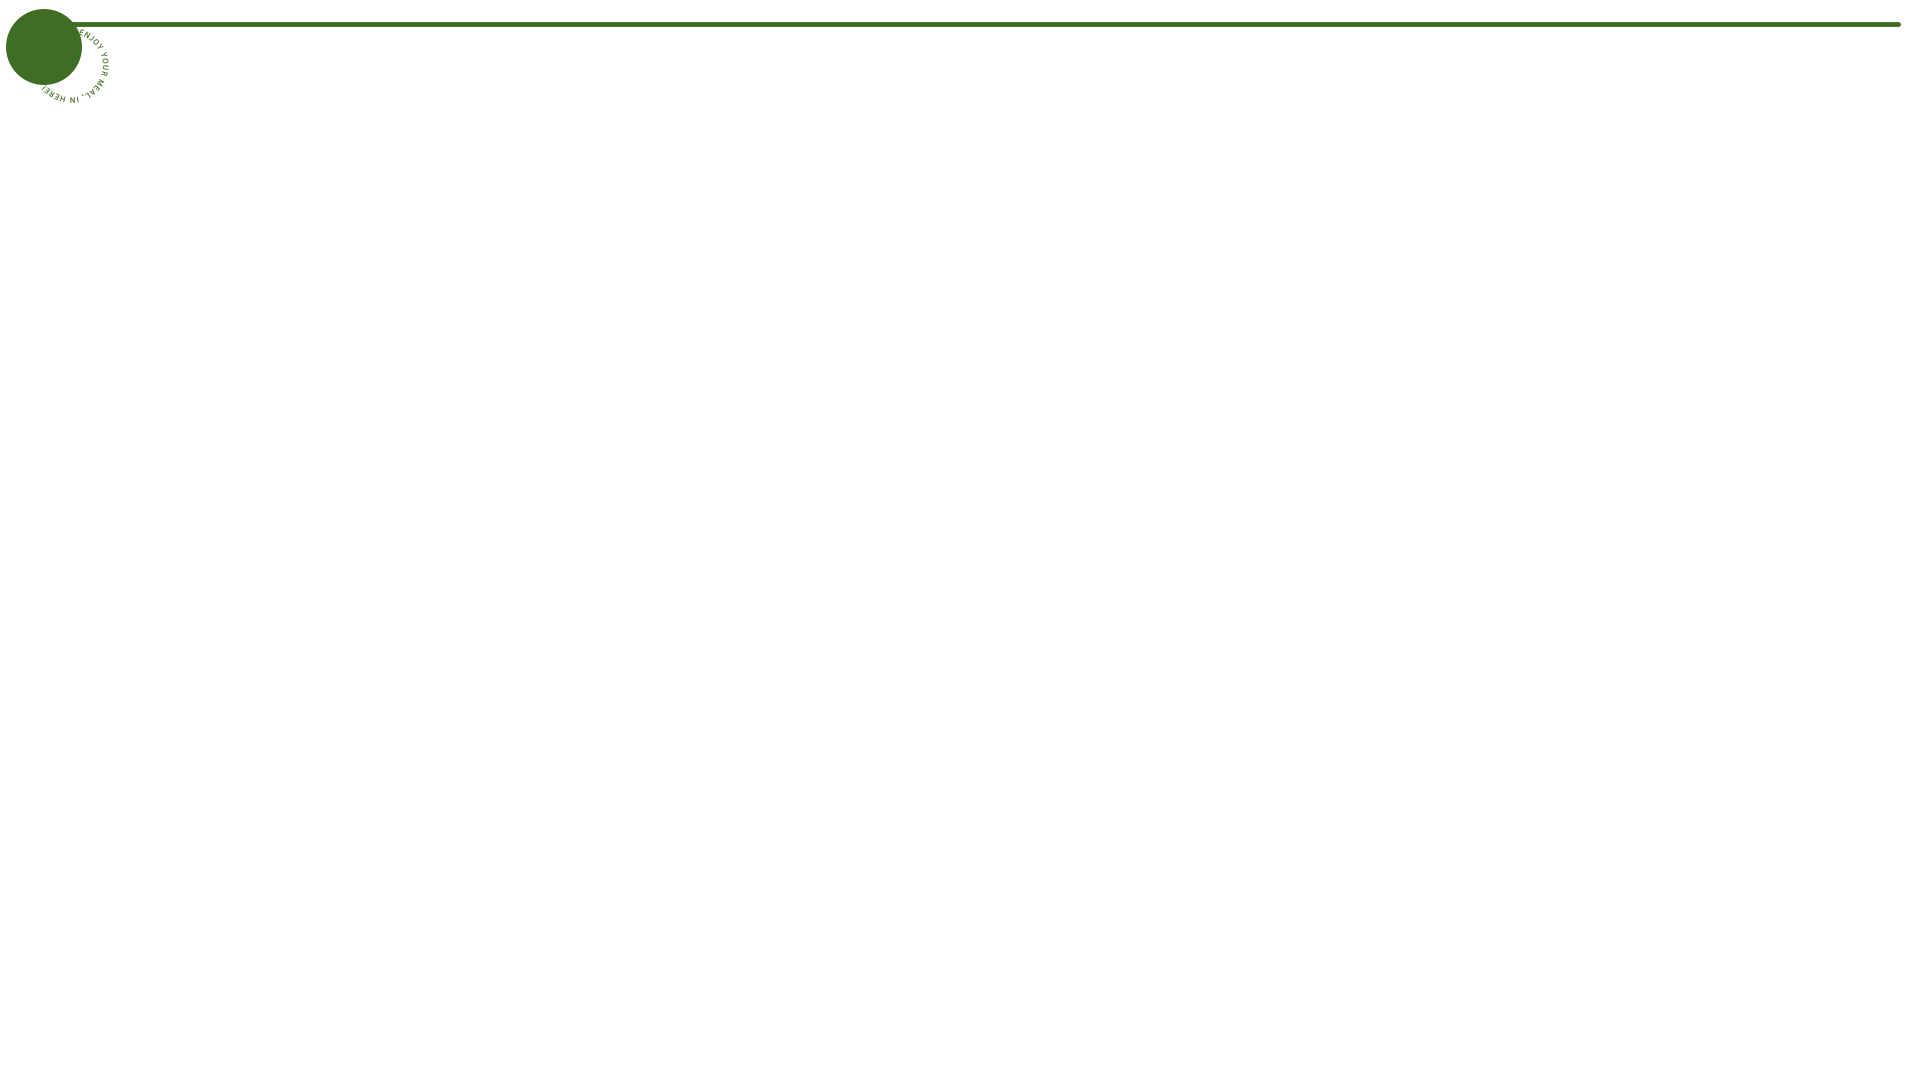
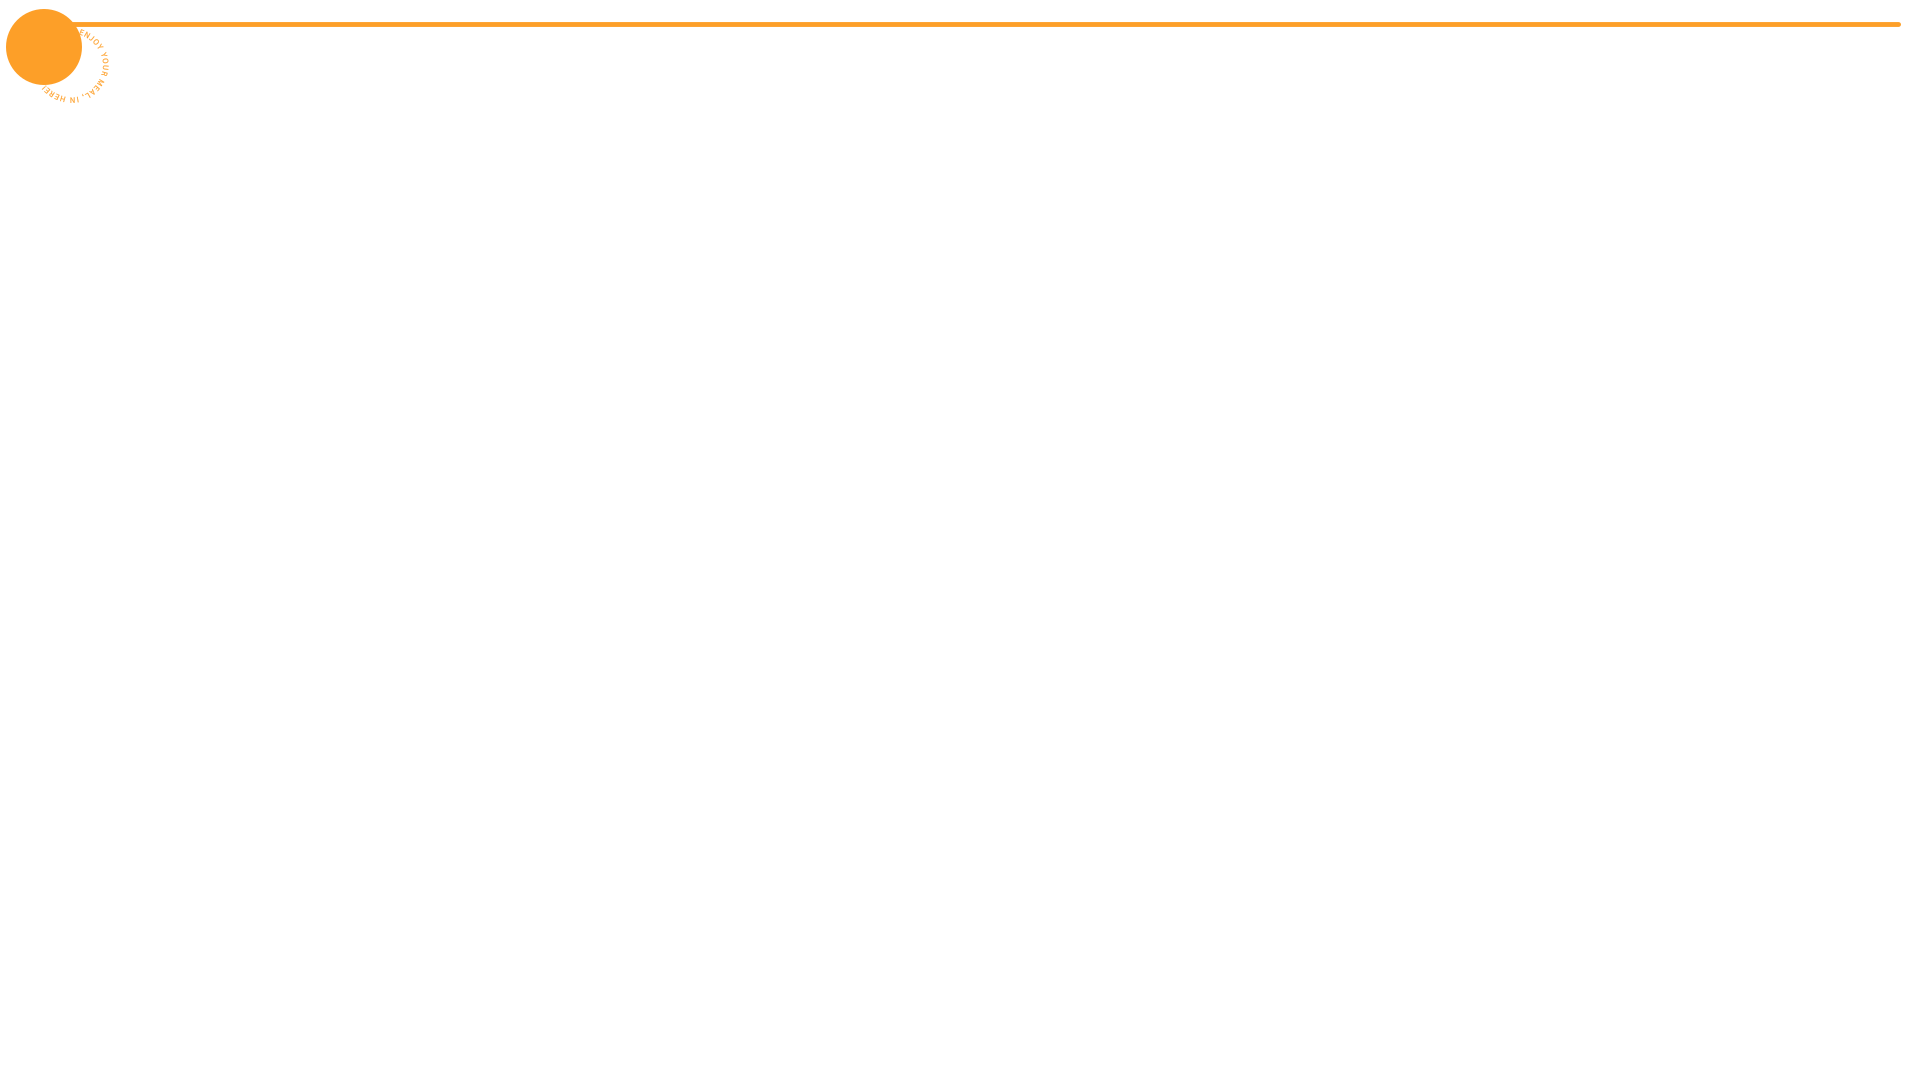
23.07.28

Changed region(s): [[0.0, 0.0, 1.0, 0.0917]]

diff --git a/myapp/src/Food/Food.module.css b/myapp/src/Food/Food.module.css
@@ -112,7 +112,8 @@
     background-repeat: no-repeat;
     background-size: cover;
     position: relative;
-    height: 300px; /* Adjust the height as needed */
+    height: 300px;
+    /* Adjust the height as needed */
 }
 
 .ListFindButton {
@@ -121,8 +122,10 @@
     cursor: pointer;
     padding: 0;
     position: absolute;
-    top: 13%; /* Place the button at the top */
-    left: 7%; /* Place the button at the left */
+    top: 13%;
+    /* Place the button at the top */
+    left: 7%;
+    /* Place the button at the left */
 }
 
 
@@ -135,7 +138,8 @@
     position: absolute;
     top: auto;
     left: auto;
-    z-index: -2; /* 이미지를 뒤로 보내어 내용이 위에 나타나도록 설정 */
+    z-index: -2;
+    /* 이미지를 뒤로 보내어 내용이 위에 나타나도록 설정 */
 }
 
 .FoundSq::before {
@@ -145,7 +149,7 @@
     width: 97%;
     height: 97%;
     /* 사각형의 색상과 불투명도 설정 */
-    background-color: rgba(255, 255, 255, 0.65); 
+    background-color: rgba(255, 255, 255, 0.65);
     /* 사각형을 화면 중앙에 위치하도록 설정 */
     position: absolute;
     top: 50%;
@@ -186,13 +190,13 @@
 }
 
 
-.FoodFoundChkdiv{
+.FoodFoundChkdiv {
     display: inline-flex;
     /* width: 80%; */
     position: absolute;
     top: 15%;
     left: 7.5%;
-    
+
 }
 
 .checkboxLabel {
@@ -205,33 +209,21 @@
     /* width: 80%; */
     position: absolute;
     top: 15%;
-    left: 30%; 
+    left: 30%;
 }
 
 .FoundFindBt {
-    width: 200px;;
+    width: 200px;
+    ;
     position: absolute;
     bottom: 4%;
-    left: 85%; 
+    left: 85%;
 }
 
 
 input[type=checkbox] {
     zoom: 1.5;
 }
-
-.LoginBackImg {
-    background-image: url("../Img/FoodLogin/LoginBackImg.png");
-    background-repeat: no-repeat;
-    background-size: cover;
-    width: 100%;
-    height: 100%;
-    /* 절대 위치 설정 */
-    position: absolute;
-    top: auto;
-    left: auto;
-}
-
 
 .SearchBackImg {
     background-image: url("../Img/FoodSearch/SearchBackImg.png");
@@ -255,12 +247,14 @@ input[type=checkbox] {
 .Searchall {
     display: inline-flex;
 }
+
 .Searchsub {
     display: inline-flex;
     font-family: 'Binggrae-Two';
-    color: #406D24;
+    color: #FD9F28;
     font-size: 35px;
 }
+
 .SearchAddress {
     position: absolute;
     top: 10%;
@@ -272,6 +266,7 @@ input[type=checkbox] {
     top: 25%;
     left: 8%;
 }
+
 .SearchPet {
     position: absolute;
     top: 40%;
@@ -283,3 +278,54 @@ input[type=checkbox] {
     top: 60%;
     left: 6%;
 }
+
+.LoginBackImg {
+    background-image: url("../Img/FoodLogin/LoginBackImg.png");
+    background-size: contain;
+    background-repeat: no-repeat;
+    background-position: center;
+    width: 100%;
+    height: 100vh;
+    display: flex; /* 부모 요소를 Flex 컨테이너로 설정 */
+    justify-content: center; /* 가로 방향으로 가운데 정렬 */
+    align-items: center; /* 세로 방향으로 가운데 정렬 */
+}
+
+.Inputdiv {
+    position: absolute;
+    top: 30%;
+    left: 35%;
+}
+
+.LoginBtdiv {
+    position: absolute;
+    bottom: 10%;
+    left: 40%;
+}
+
+
+.Loginsub {
+    display: flex;
+    flex-direction: column;
+    align-items: center;
+    margin-top: 14px;
+    width: 700px;
+    height: 90px;
+    background-size: cover;
+    position: relative; 
+  }
+  
+.Loginsub input {
+    width: 590px;
+    height: 90px;
+    background-color: transparent; 
+    background-repeat: no-repeat;
+    background-position: left center; 
+    background-size: 10%; 
+    border: none; 
+    padding: 5px; 
+    position: absolute; 
+    left: 15%;
+}
+  
+  

diff --git a/myapp/src/Food/FoodLogin.js b/myapp/src/Food/FoodLogin.js
@@ -1,28 +1,52 @@
-import style from "./Food.module.css"
-
-import LoginBt from "../Img/FoodLogin/LoginBt.png"
-import LoginID from "../Img/FoodLogin/LoginID.png"
-import LoginPW from "../Img/FoodLogin/LoginPW.png"
+import style from "./Food.module.css";
+import LoginBt from "../Img/FoodLogin/LoginBt.png";
+import LoginID from "../Img/FoodLogin/LoginID.png";
+import LoginPW from "../Img/FoodLogin/LoginPW.png";
+import { useState } from "react"; // Import useState to handle login validation state
+import { useNavigate } from "react-router-dom";
 
 const FoodLogin = () => {
+  const navigate = useNavigate();
 
-    return (
-        <main className={style.LoginBackImg}>
-            <form>
-                <div class="grid">
-                    <label for="ID" >
-                        <input type="text" id="ID" name="ID" placeholder="ID" required />
-                    </label>
+  // State to store login status (true for successful login, false for failed login)
+  const [loginStatus, setLoginStatus] = useState(null);
 
-                    <label for="pw">
-                        <input type="text" id="pw" name="pw" placeholder="pw" required />
-                    </label>
-                </div>
-                <button  type="submit"><img src={LoginBt} alt="LoginBt" className={style.LoginBt}/></button>
-            </form>
-        </main>
+  const handleLogin = () => {
+    // 여기서 로그인 동작을 수행합니다.
+    // 예시로 로그인이 성공했다고 가정하고 setTimeout을 사용하여 로그인 결과를 1초 뒤에 설정합니다.
+    // 실제로는 서버와 통신하여 로그인 결과를 처리해야 합니다.
+    setTimeout(() => {
+      const loginResult = true; // 예시: 로그인 결과 (true: 성공, false: 실패)
 
-    );
+      // 로그인 결과에 따라 처리
+      if (loginResult) {
+        setLoginStatus(true); // 로그인 성공
+        navigate("/"); // FoodMain.js 경로로 페이지 이동
+      } else {
+        setLoginStatus(false); // 로그인 실패
+      }
+    }, 1000); // 1초 후에 로그인 결과를 설정합니다. (실제로는 서버와 통신해야 함)
+  };
+
+  return (
+    <main className={style.LoginBackImg}>
+      <form>
+        <div className={style.Inputdiv}>
+          <div className={style.Loginsub} style={{ backgroundImage: `url(${LoginID})` }}>
+            <input type="text" id="ID" name="ID" placeholder="ID" required />
+          </div>
+
+          <div className={style.Loginsub} style={{ backgroundImage: `url(${LoginPW})` }}>
+            <input type="password" id="pw" name="pw" placeholder="pw" required />
+          </div>
+        </div>
+        <div className={style.LoginBtdiv}>
+          <img src={LoginBt} alt="LoginBt" className={style.LoginBt} onClick={handleLogin} />
+        </div>
+        {loginStatus === false && <p>Login Failed. Please try again.</p>}
+      </form>
+    </main>
+  );
 };
 
 export default FoodLogin;
